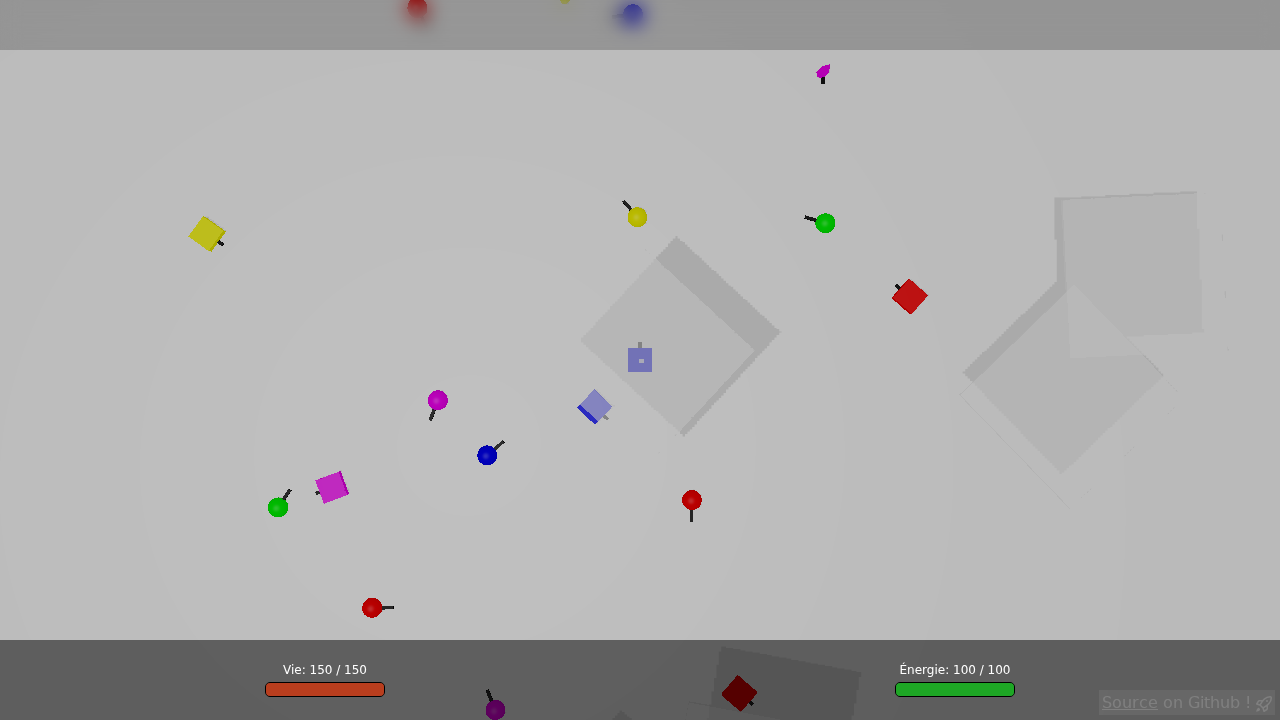
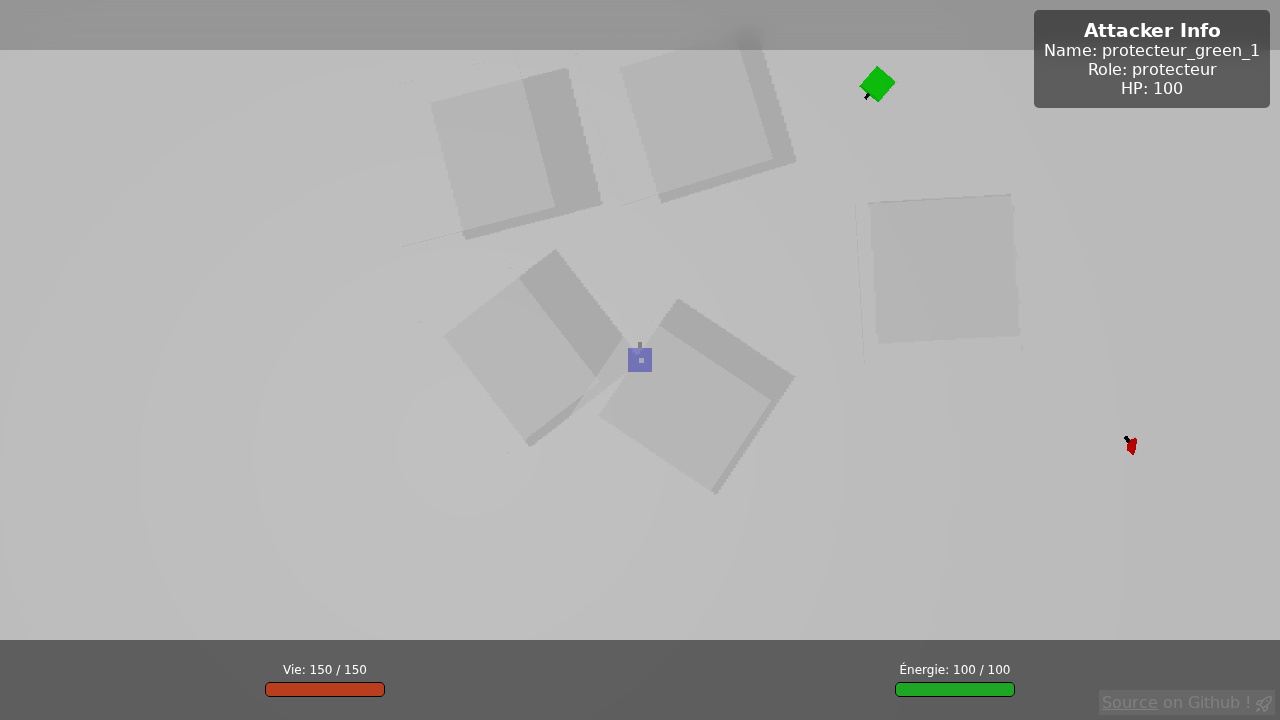
feat: Implement Comprehensive AI Overhaul and Ranger Shooting Mechanic
This commit introduces a major overhaul of the mob AI and combat systems, fulfilling a series of user requests to make the game more dynamic and strategic.

Key Features & Fixes:
- **Ranger Shooting:** Rangers now have a shooting ability. They fire projectiles at enemies within their maximum range, with a 3-second cooldown and an energy cost per shot.
- **Group Cohesion:** All mobs now exhibit group cohesion, causing them to stick together with their faction allies.
- **Role-Specific AI:**
    - **Healers:** Prioritize healing injured allies. When idle, they follow the nearest friendly Protector.
    - **Rangers:** Follow a "buddy" Protector when not in combat. During combat, they kite enemies to maintain an optimal distance while shooting.
- **Global Awareness:** Mobs now have global awareness of both allies and enemies, allowing for engagements across the entire map.
- **Projectile System:** A new `ProjectileManager` handles the lifecycle of all projectiles, including creation, updates, and collision detection. This system correctly handles energy costs, prevents friendly fire, and ensures projectiles are properly destroyed upon impact or expiration.
- **Bug Fixes:** Resolved numerous critical bugs related to mob energy configuration, projectile self-collision, and projectile destruction.

diff --git a/js/mobs/Mobs.js b/js/mobs/Mobs.js
@@ -69,31 +69,15 @@ class Mobs {
     }
 
     getFactionSpawnPoint(factionName, floorSize) {
-        const factionNames = Object.keys(this.#FactionManager.getFactions()).filter(name => name !== 'neutral' && name !== this.playerFaction);
-        const factionIndex = factionNames.indexOf(factionName);
+        // Spawn all factions in a smaller radius around the center to ensure combat.
+        const spawnRadius = floorSize.x / 4;
 
-        const cornerPositions = [
-            { x: -floorSize.x / 2, y: -floorSize.y / 2 }, // Top-left
-            { x: floorSize.x / 2, y: -floorSize.y / 2 },  // Top-right
-            { x: -floorSize.x / 2, y: floorSize.y / 2 }, // Bottom-left
-            { x: floorSize.x / 2, y: floorSize.y / 2 }   // Bottom-right
-        ];
+        const randomAngle = Math.random() * 2 * Math.PI;
+        const randomRadius = Math.random() * spawnRadius;
 
-        let basePosition;
-        if (factionName === this.playerFaction) {
-            basePosition = { x: 0, y: 0 }; // Center for player's faction
-        } else if (factionIndex !== -1) {
-            basePosition = cornerPositions[factionIndex % cornerPositions.length];
-        } else {
-            // Default to random if something goes wrong
-            return this.#Formula.get_aleaPosOnFloor(floorSize);
-        }
-
-        // Add some randomness to the position to avoid perfect stacking
-        const randomOffset = 10;
         return {
-            x: basePosition.x + this.#Formula.rand(-randomOffset, randomOffset),
-            y: basePosition.y + this.#Formula.rand(-randomOffset, randomOffset),
+            x: Math.cos(randomAngle) * randomRadius,
+            y: Math.sin(randomAngle) * randomRadius,
             z: 0
         };
     }

diff --git a/js/mobs/Mob.js b/js/mobs/Mob.js
@@ -64,11 +64,13 @@ class Mob {
 	#regen() {
 		if (this.regenTimer.current >= this.regenTimer.max) {
 			this.regenTimer.current = 0;
-			// Regenerate energy for mobs
-			if (this.conf.energy < this.conf.maxEnergy) {
-				this.conf.energy += this.conf.regen || 0;
-				if (this.conf.energy > this.conf.maxEnergy) {
-					this.conf.energy = this.conf.maxEnergy;
+			const energy = this.conf.energy;
+			if (energy && energy.regen) {
+				if (energy.current < energy.max) {
+					energy.current += energy.regen;
+					if (energy.current > energy.max) {
+						energy.current = energy.max;
+					}
 				}
 			}
 		} else {

diff --git a/js/game/ProjectileManager.js b/js/game/ProjectileManager.js
@@ -55,7 +55,7 @@ class ProjectileManager {
                 this.StatManager.refresh('stamina', energyStat.current);
             }
         } else {
-            // console.log(`ProjectileManager: Failed to create '${skillName}' for ${caster.id || caster.conf.nickname}. Insufficient energy.`);
+            // console.log(`ProjectileManager: Failed to create '${skillName}' for ${caster.id || caster.conf.nickname}. Insufficient energy. Has ${energyStat ? energyStat.current : 'N/A'}, needs ${energyCost}.`);
         }
     }
 }

diff --git a/js/mobs/MobConfig.js b/js/mobs/MobConfig.js
@@ -39,9 +39,7 @@ class MobConfig {
                 hp: 100,
                 maxHp: 100,
                 stamina: 100,
-                energy: 100,
-                maxEnergy: 100,
-                regen: 0.5,
+                energy: { current: 100, max: 100, regen: 0.5 },
                 food: 100,
                 moral: 50,
                 //-- Statistiques secondaires

diff --git a/jules-scratch/verification/verify_final_fixes.py b/jules-scratch/verification/verify_final_fixes.py
@@ -5,6 +5,9 @@ def run_verification():
         browser = p.chromium.launch(headless=True)
         page = browser.new_page()
 
+        # Listen for all console events and print them to the terminal
+        page.on("console", lambda msg: print(f"BROWSER LOG: {msg.text}"))
+
         try:
             # 1. Start the game
             page.goto("http://localhost:8000")
